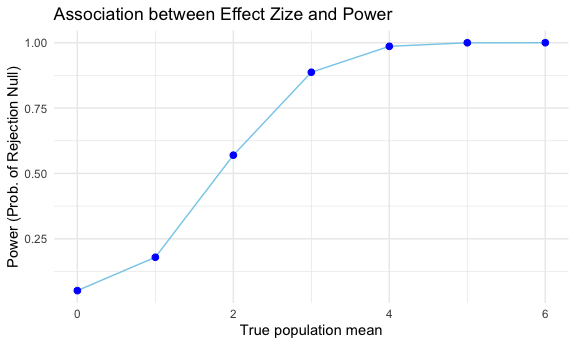
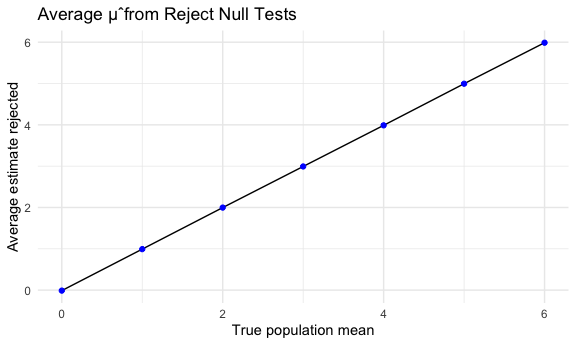
Overlaying figure 3 for sample vs population estimates

diff --git a/p8105_hw5_smo2147.md b/p8105_hw5_smo2147.md
@@ -100,7 +100,7 @@ bday_results |>
 
 <img src="p8105_hw5_smo2147_files/figure-gfm/figure 1-1.png" width="90%" />
 
-## Figure 1 - Comment
+#### Figure 1 - Comments
 
 Figure 1 shows that the probability of sharing a birthday increases as
 the group size increases. For example, in a random group of 23 people,
@@ -193,18 +193,64 @@ power_df |>
   geom_line(color = "skyblue") +
   geom_point(color = "blue", size = 2) +
   labs(
-    title = "Figure 2. Association between Effect Zize and Power",
+    title = "Figure 2. Association between Effect Size and Power",
     x = "True population mean",
-    y = "Power (Prob. of Rejection Null)"
+    y = "Power (Prob. of pejection null)"
   )
 ```
 
 <img src="p8105_hw5_smo2147_files/figure-gfm/figure 2-1.png" width="90%" />
 
-## Figure 2 - Comment
+#### Figure 2 - Comments
 
 Figure 2 shows that the proportion of rejecting the null, meaning power,
 increases as the true population mean moves further away from 0.
 Notably, when the true population mean increases from 2 to 3, the
 proportion of rejecting the null increases significantly, closer to a
 power of 1
+
+``` r
+avg_est_summ =
+  sim_mu_06 |> 
+  group_by(mu) |> 
+  summarize(
+    avg_est_all = mean(estimate),
+    avg_est_reject = mean(estimate[p.value < .05])
+  )
+
+avg_est_summ |> 
+  rename(
+    `True µ` = mu,
+    `Average µˆ (All)` = avg_est_all,
+    `Average µˆ (Rejected)` = avg_est_reject
+  ) |> 
+  knitr::kable(digits = 3)
+```
+
+| True µ | Average µˆ (All) | Average µˆ (Rejected) |
+|-------:|-----------------:|----------------------:|
+|      0 |           -0.012 |                 0.044 |
+|      1 |            0.992 |                 2.275 |
+|      2 |            1.997 |                 2.599 |
+|      3 |            2.993 |                 3.184 |
+|      4 |            3.988 |                 4.021 |
+|      5 |            4.995 |                 4.996 |
+|      6 |            5.988 |                 5.988 |
+
+``` r
+avg_est_summ |> 
+  ggplot(aes(x = mu)) +
+  geom_line(aes(y = avg_est_all), color = "blue") +
+  geom_point(aes(y = avg_est_all), color = "blue") +
+  geom_line(aes(y = avg_est_reject), color = "red") +
+  geom_point(aes(y = avg_est_reject), color = "red") +
+  labs(
+    title = "Figure 3. Average Sample Estimates vs True Population Estimates",
+    x = "True population (µ)",
+    y = "Average sample estimate (µˆ)"
+  )
+```
+
+<img src="p8105_hw5_smo2147_files/figure-gfm/figure 3-1.png" width="90%" />
+
+#### Figure 3 - Comments
